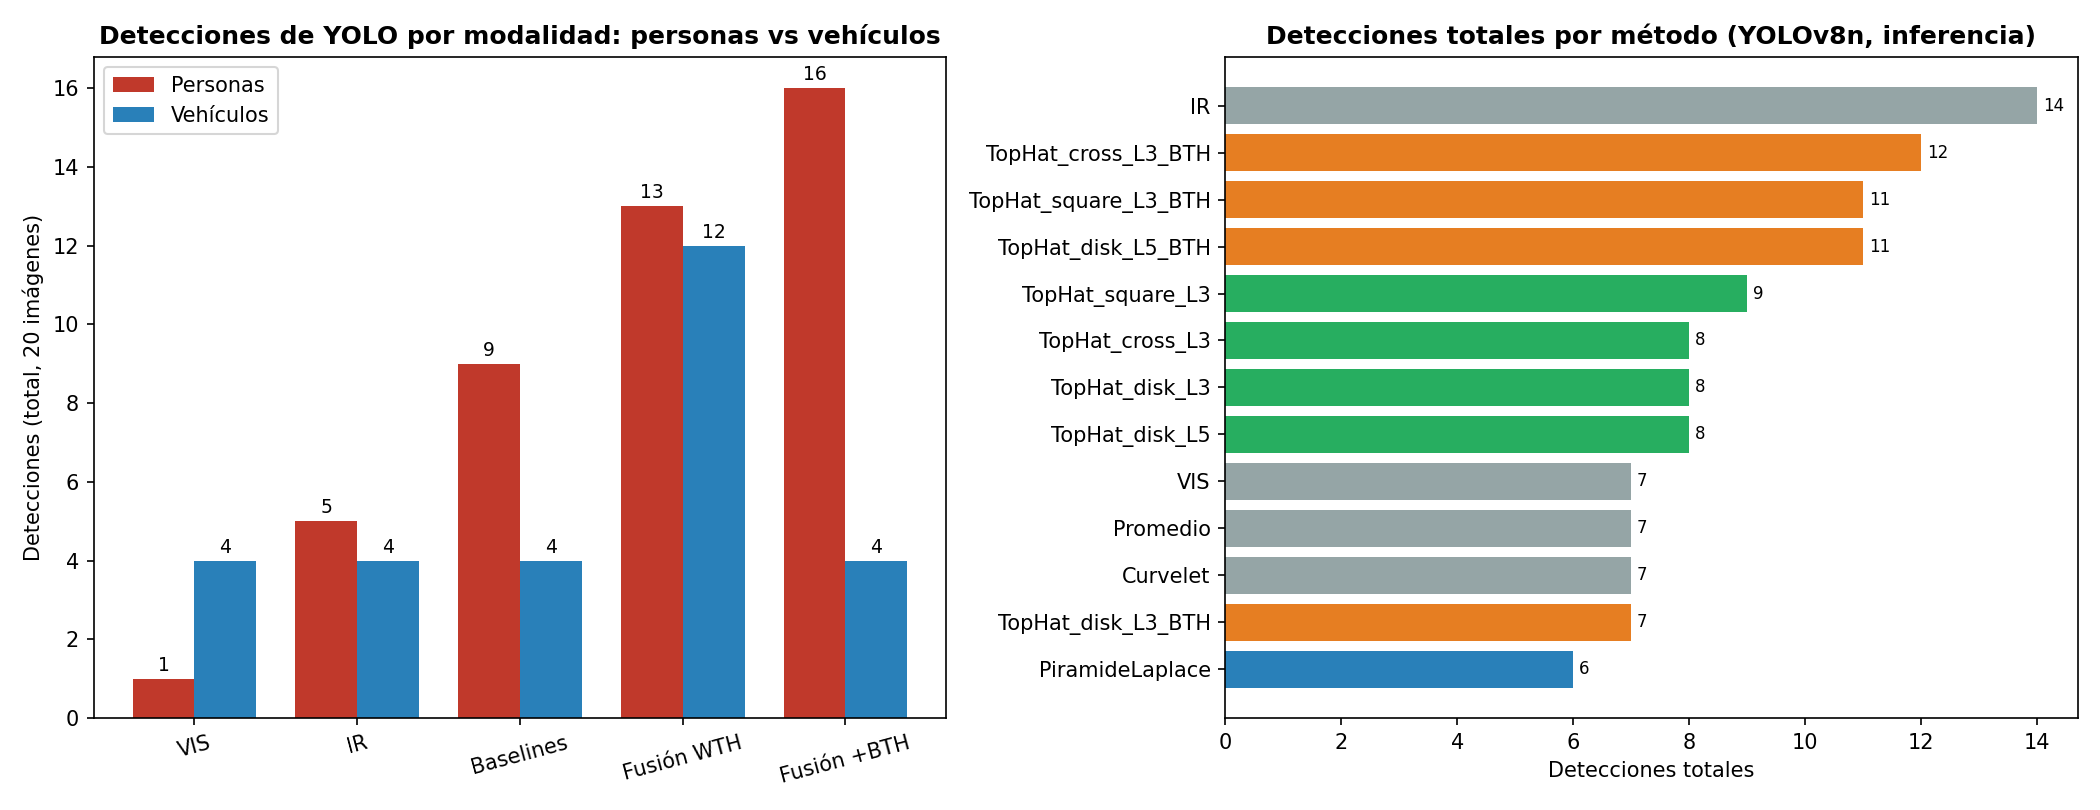
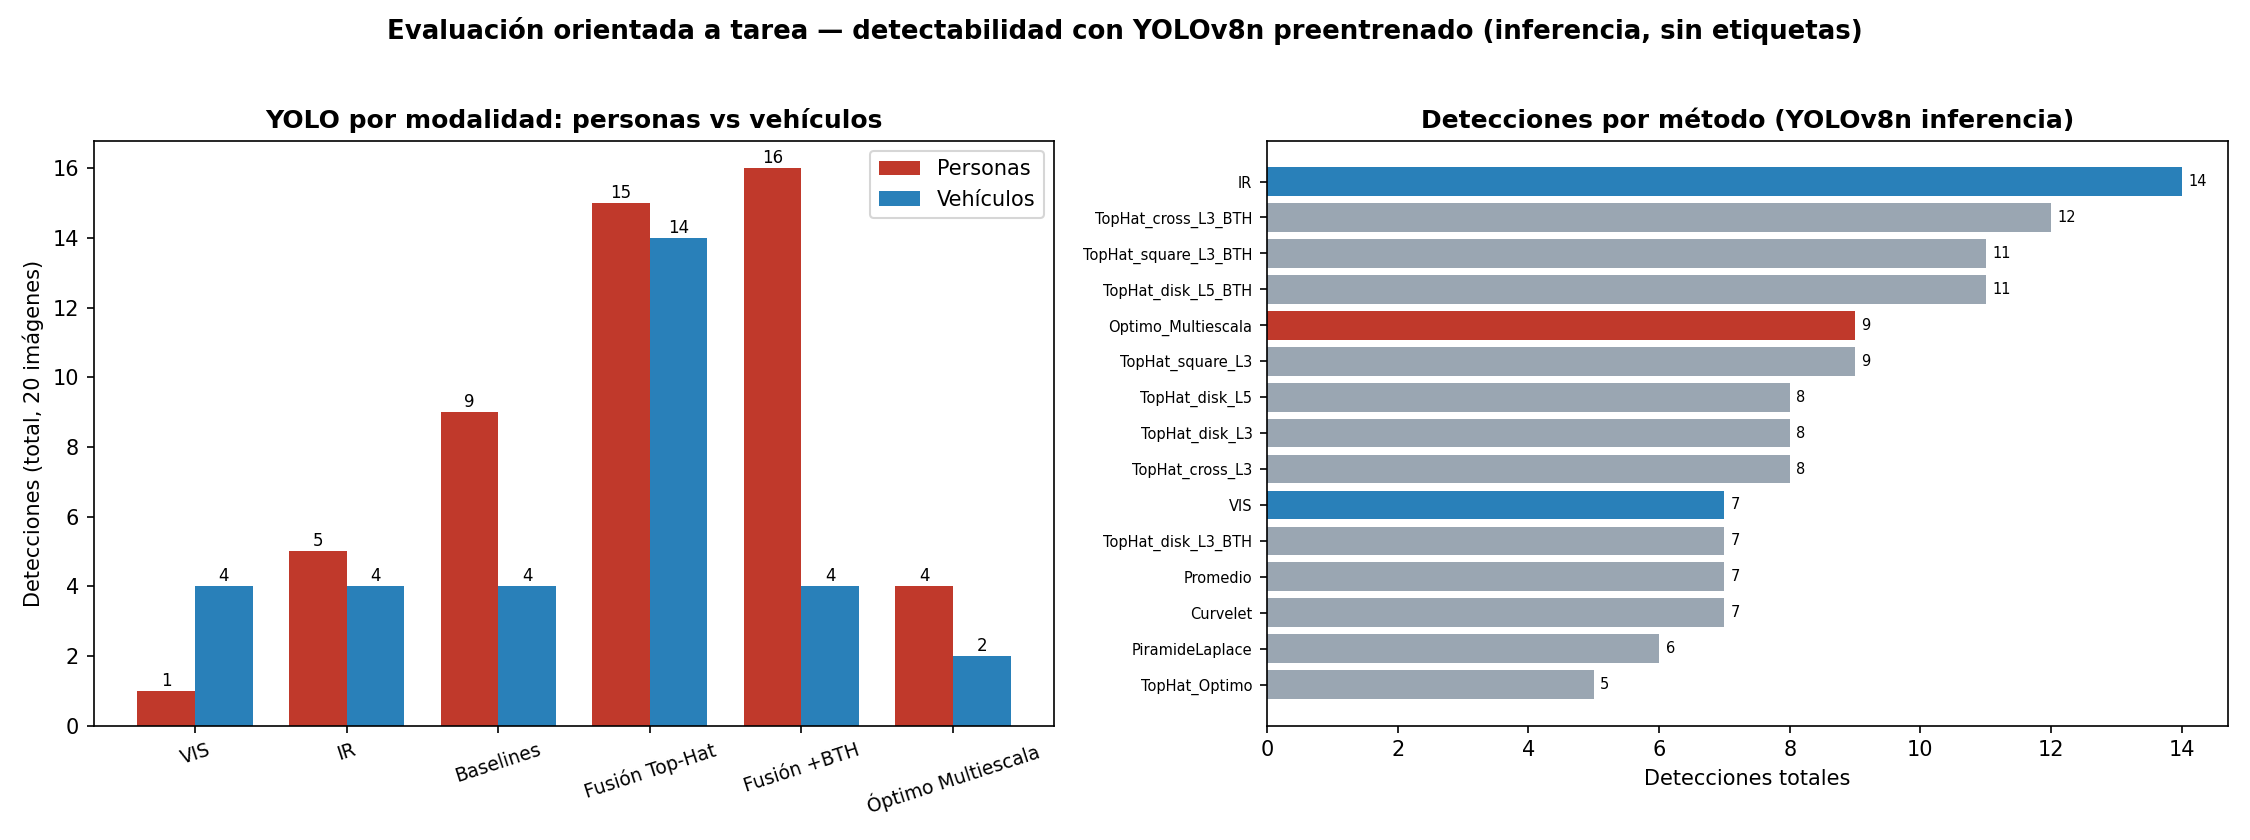
Parte B (aplicación): detectabilidad real con YOLOv8n por modalidad, incluido el método óptimo multiescala (Tabla 6 + Figura 7)

diff --git a/experiments/detection/make_detection_figure.py b/experiments/detection/make_detection_figure.py
@@ -1,43 +1,37 @@
 # -*- coding: utf-8 -*-
-"""Figura de la evaluación de detección con YOLO (a partir de detection_summary.csv)."""
+"""Figura de detectabilidad por inferencia (YOLOv8n) — Parte B (aplicación)."""
 from pathlib import Path
 import pandas as pd, numpy as np
 import matplotlib; matplotlib.use("Agg")
 import matplotlib.pyplot as plt
+MDIR=Path("experiments/results/metrics_reports"); FIG=Path("docs/figures")
+s=pd.read_csv(MDIR/"detection_summary.csv").set_index("method")
 
-ROOT = Path(__file__).resolve().parents[2]
-MDIR = ROOT/"experiments"/"results"/"metrics_reports"
-FIG = ROOT/"docs"/"figures"
-s = pd.read_csv(MDIR/"detection_summary.csv").set_index("method")
+def grp(m):
+    if m=="VIS": return "VIS"
+    if m=="IR": return "IR"
+    if m in ("Promedio","PiramideLaplace","Curvelet"): return "Baselines"
+    if m=="Optimo_Multiescala": return "Óptimo Multiescala"
+    return "Fusión +BTH" if "BTH" in m else "Fusión Top-Hat"
+s["g"]=[grp(m) for m in s.index]
+order=["VIS","IR","Baselines","Fusión Top-Hat","Fusión +BTH","Óptimo Multiescala"]
+g=s.groupby("g")[["person_total","vehiculo_total"]].sum().reindex(order)
 
-def grp(name):
-    if name=="VIS": return "VIS"
-    if name=="IR": return "IR"
-    if name in ("Promedio","PiramideLaplace","Curvelet"): return "Baselines"
-    return "Fusión +BTH" if "BTH" in name else "Fusión WTH"
-s["grupo"]=[grp(m) for m in s.index]
-order=["VIS","IR","Baselines","Fusión WTH","Fusión +BTH"]
-g=s.groupby("grupo")[["person_total","vehiculo_total"]].sum().reindex(order)
-
-fig,ax=plt.subplots(1,2,figsize=(14,5.4))
+fig,ax=plt.subplots(1,2,figsize=(15,5.6))
 x=np.arange(len(order)); w=0.38
-ax[0].bar(x-w/2, g["person_total"], w, label="Personas", color="#c0392b")
-ax[0].bar(x+w/2, g["vehiculo_total"], w, label="Vehículos", color="#2980b9")
-ax[0].set_xticks(x); ax[0].set_xticklabels(order, rotation=15)
-ax[0].set_ylabel("Detecciones (total, 20 imágenes)")
-ax[0].set_title("Detecciones de YOLO por modalidad: personas vs vehículos", weight="bold")
-ax[0].legend()
-for i,v in enumerate(g["person_total"]): ax[0].text(i-w/2,v+0.2,int(v),ha="center",fontsize=9)
-for i,v in enumerate(g["vehiculo_total"]): ax[0].text(i+w/2,v+0.2,int(v),ha="center",fontsize=9)
-
+ax[0].bar(x-w/2,g["person_total"],w,label="Personas",color="#c0392b")
+ax[0].bar(x+w/2,g["vehiculo_total"],w,label="Vehículos",color="#2980b9")
+ax[0].set_xticks(x); ax[0].set_xticklabels(order,rotation=18,fontsize=9)
+ax[0].set_ylabel("Detecciones (total, 20 imágenes)"); ax[0].legend()
+ax[0].set_title("YOLO por modalidad: personas vs vehículos",weight="bold")
+for i,v in enumerate(g["person_total"]): ax[0].text(i-w/2,v+0.15,int(v),ha="center",fontsize=8)
+for i,v in enumerate(g["vehiculo_total"]): ax[0].text(i+w/2,v+0.15,int(v),ha="center",fontsize=8)
 ss=s.sort_values("det_total")
-colors=[("#e67e22" if "BTH" in m else "#27ae60") if m.startswith("TopHat") else
-        ("#2980b9" if m=="PiramideLaplace" else "#95a5a6") for m in ss.index]
-ax[1].barh(ss.index, ss["det_total"], color=colors)
-ax[1].set_xlabel("Detecciones totales")
-ax[1].set_title("Detecciones totales por método (YOLOv8n, inferencia)", weight="bold")
-for i,v in enumerate(ss["det_total"]): ax[1].text(v+0.1,i,int(v),va="center",fontsize=8)
-fig.tight_layout()
-fig.savefig(FIG/"fig_deteccion_yolo.png", dpi=150)
-print("Figura:", FIG/"fig_deteccion_yolo.png")
-print(g.to_string())
+cols=["#c0392b" if m=="Optimo_Multiescala" else ("#2980b9" if m in ("VIS","IR") else "#9aa6b2") for m in ss.index]
+ax[1].barh(ss.index,ss["det_total"],color=cols)
+ax[1].set_xlabel("Detecciones totales"); ax[1].set_title("Detecciones por método (YOLOv8n inferencia)",weight="bold")
+ax[1].tick_params(axis="y",labelsize=7)
+for i,v in enumerate(ss["det_total"]): ax[1].text(v+0.1,i,int(v),va="center",fontsize=7)
+fig.suptitle("Evaluación orientada a tarea — detectabilidad con YOLOv8n preentrenado (inferencia, sin etiquetas)",fontsize=12.5,weight="bold")
+fig.tight_layout(rect=[0,0,1,0.96]); fig.savefig(FIG/"fig_deteccion_yolo.png",dpi=150)
+print(g.to_string()); print("ok fig_deteccion_yolo.png")